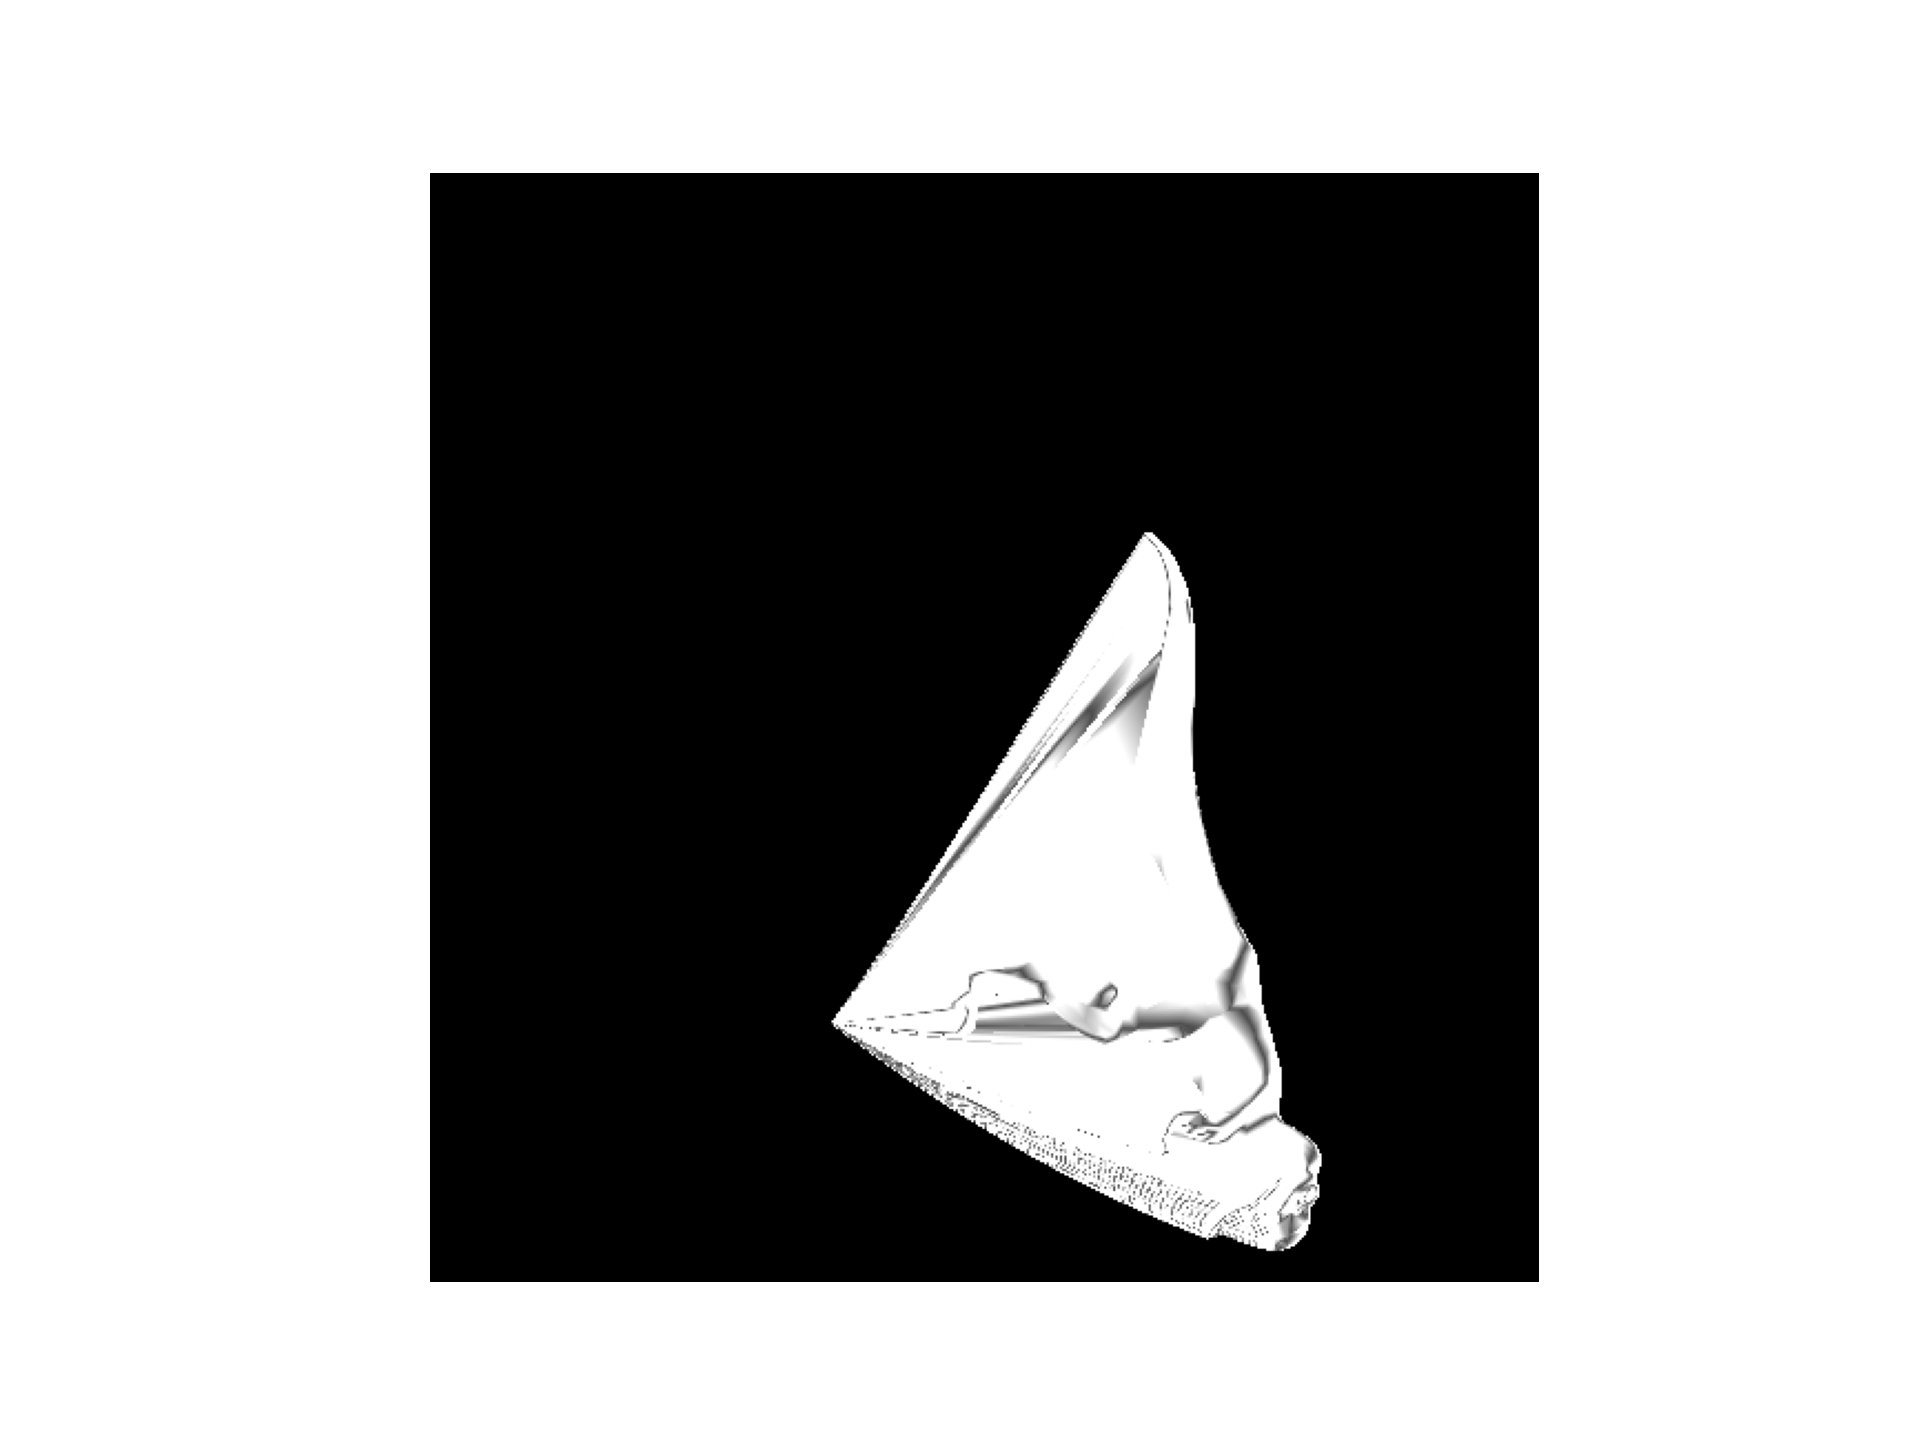
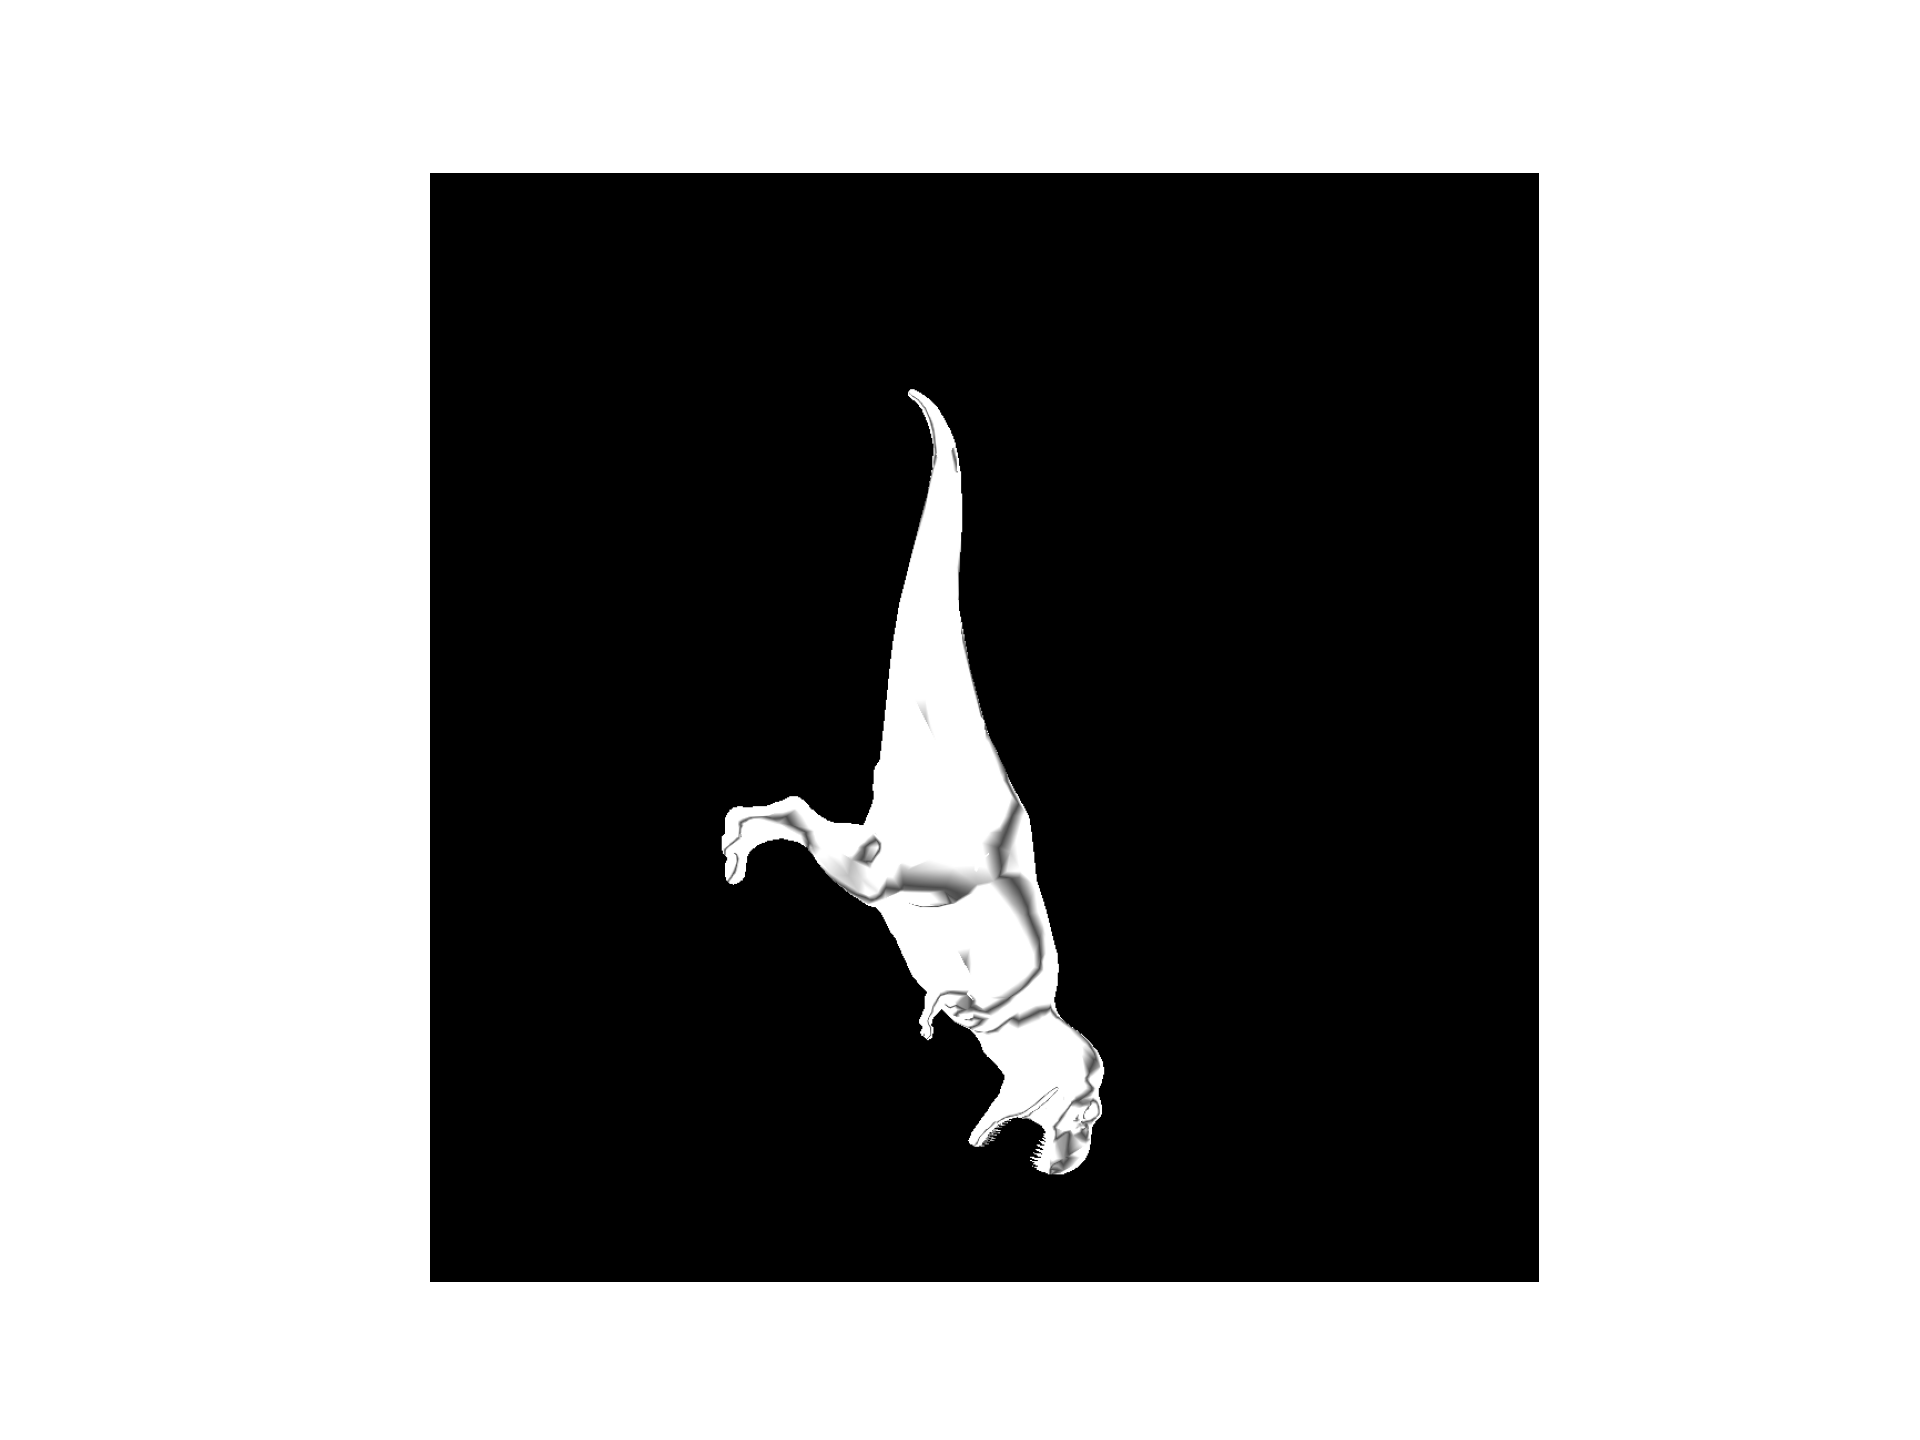
obj fixed + dinosaur (127 sec)

Changed region(s): [[0.375, 0.2812, 0.6875, 0.875]]

diff --git a/render/figures.cpp b/render/figures.cpp
@@ -129,9 +129,11 @@ Object* PolyFigure::clone(std::vector<std::string> const &arg) {
         if (with_normals) {
             std::vector<Vec3> f_normals;
             for (short i = 1; i < vec.size(); i++) {
-                f1_str = split(vec[i], "/");
-                f_vertices.push_back(vertices[atoi(f1_str[0].c_str()) - 1]);
-                f_normals.push_back(normals[atoi(f1_str[2].c_str()) - 1]);
+                if (vec[i][0] != 13 && vec[i][0] != 10) {
+                    f1_str = split(vec[i], "/");
+                    f_vertices.push_back(vertices[atoi(f1_str[0].c_str()) - 1]);
+                    f_normals.push_back(normals[atoi(f1_str[2].c_str()) - 1]);
+                }
             }
             for (short i = 1; i + 1 < f_vertices.size(); i++) {
                 rez->body->at(number).push_back(Triangle(f_vertices[0], f_vertices[i], f_vertices[i + 1], f_normals[0], f_normals[i], f_normals[i + 1]));
